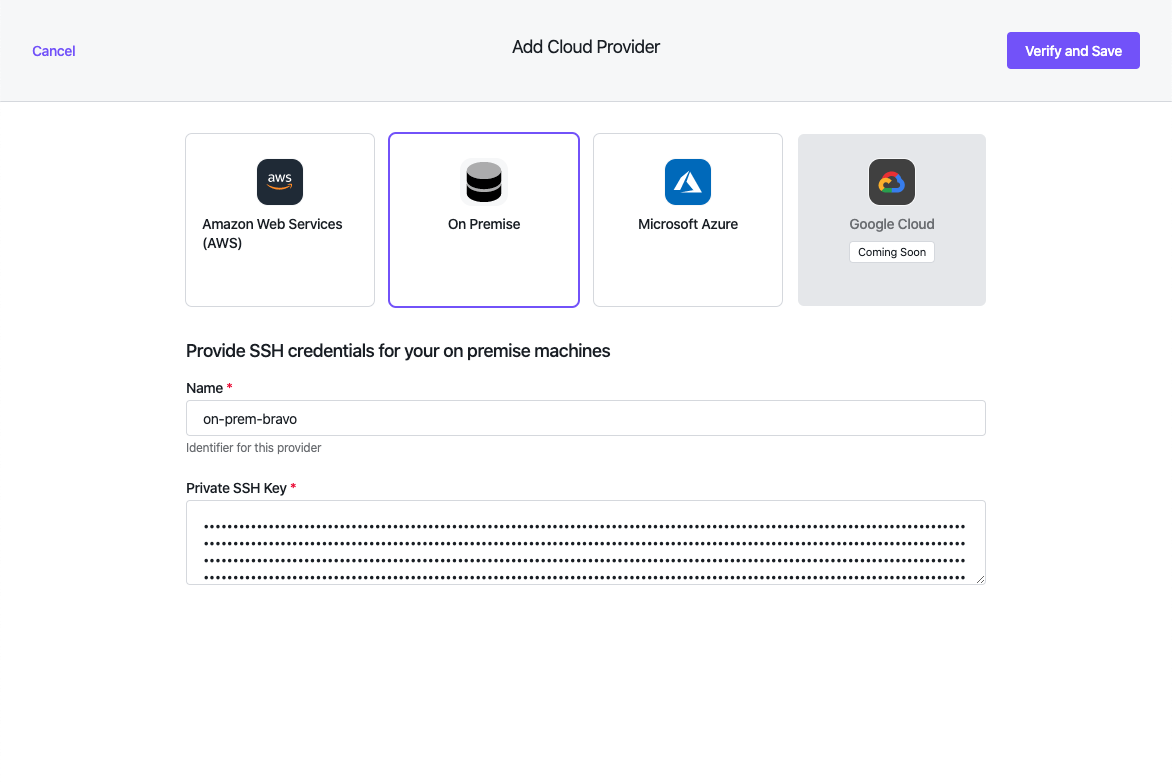
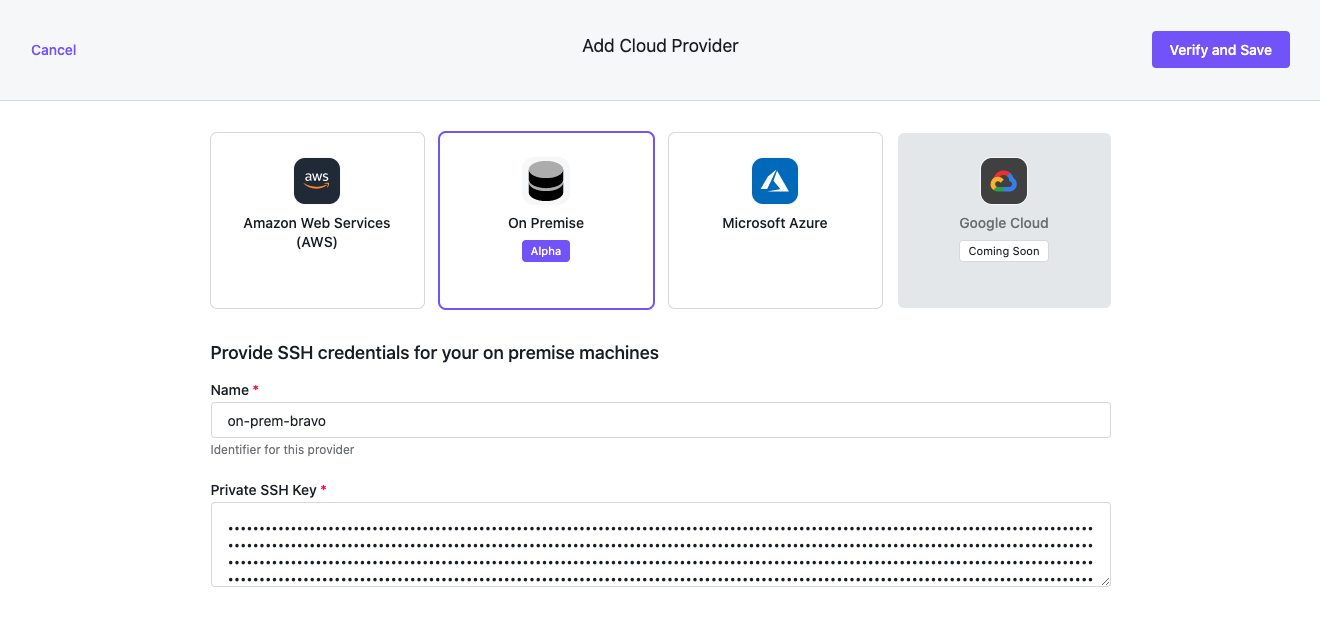
add on-prem tutorial

diff --git a/pages/ksphere/kommander/latest/tutorials/on-prem-alpha/index.md b/pages/ksphere/kommander/latest/tutorials/on-prem-alpha/index.md
@@ -1,0 +1,122 @@
+---
+layout: layout.pug
+navigationTitle: Launching a cluster On Premise
+title: Launching a cluster On Premise (Alpha)
+preview: true
+excerpt: Use a previously deployed Konvoy cluster to deploy a new Konvoy cluster with Kommander On Premise Provider
+---
+
+## Previous Setup
+
+Assuming you have the `cluster.yaml` and `inventory.yaml` for the cluster you are going to launch.
+
+<p class="message--note"><strong>NOTE: </strong>If you don't have a `cluster.yaml` you can run `konvoy init` to generate one.
+</p>
+
+### Inventory file
+
+Inventory file is an [Ansible inventory file](https://docs.ansible.com/ansible/latest/user_guide/intro_inventory.html).
+
+Example:
+
+```
+control-plane:
+  hosts:
+    10.0.0.1:
+      ansible_host: 10.0.0.1
+      node_pool: control-plane
+    10.0.0.2:
+      ansible_host: 10.0.0.2
+      node_pool: control-plane
+    10.0.0.3:
+      ansible_host: 10.0.0.3
+      node_pool: control-plane
+
+node:
+  hosts:
+    10.0.0.4:
+      ansible_host: 10.0.0.4
+      node_pool: worker
+    10.0.0.5:
+      ansible_host: 10.0.0.5
+      node_pool: worker
+    10.0.0.6:
+      ansible_host: 10.0.0.6
+      node_pool: worker
+    10.0.0.7:
+      ansible_host: 10.0.0.7
+      node_pool: worker
+bastion: {}
+all:
+  vars:
+    order: sorted
+    control_plane_endpoint: ""
+    ansible_user: "<username>"
+    ansible_port: 22
+    version: v1beta1
+```
+
+### On Premise Provider
+
+Once we've got both `cluster.yaml` and `inventory.yaml` the next step will be to add a provisioner for your provider.
+
+1. Navigate to Administration / Cloud Providers
+2. Click Add Provider button
+3. Select On Premise
+4. Give your provider a name and insert the full contents of your private ssh key, then hit Verify and Save:
+
+![On Premise Provider Form with values](/ksphere/kommander/img/On-prem-provider-with-values.png)
+
+### Launching the cluster
+
+Now we are ready to launch the cluster.
+
+Navigate to the Clusters section and click Add Cluster:
+
+![Upload YAML](/ksphere/kommander/img/clusters-header.png)
+
+Select Upload YAML to Create a Cluster:
+
+![Upload YAML](/ksphere/kommander/img/add-cluster.png)
+
+#### Fill out the form
+
+1. Give your cluster a unique name
+2. At the top of the `cluster.yaml` text field, fill the following information:
+
+```
+kind: ClusterProvisioner
+apiVersion: Konvoy.mesosphere.io/v1beta1
+metadata:
+  name: Konvoy-on-prem
+spec:
+  sshCredentials:
+    user: "<username>"
+  provider: none
+---
+```
+
+<p class="message--important"><strong>IMPORTANT: </strong>You must paste the above into the cluster.yaml field before you insert your cluster.yaml. For user, it is the ssh user tied to the keys pushed to your vms. This is the same user tied to the key we uploaded in the cloud provider step.
+</p>
+
+4. Make sure that Kommander addon is disabled `enabled: false`
+
+```
+spec:
+  addons:
+    addonsList:
+    - name: kommander
+      enabled: false
+```
+
+3. Select your On Premise Provider we have created at the previous step.
+
+4. Paste the contents of your `inventory.yaml` file into the inventory field. Ensure that your inventory.yaml does **not** specify the following line:
+
+```
+ansible_ssh_private_key_file: "id_rsa"
+```
+
+5. Click Continue
+
+At this point Provisioning of your cluster should start. You can track the deployment progress with Kibana or `kubectl`as you normaly would in Kommander.
